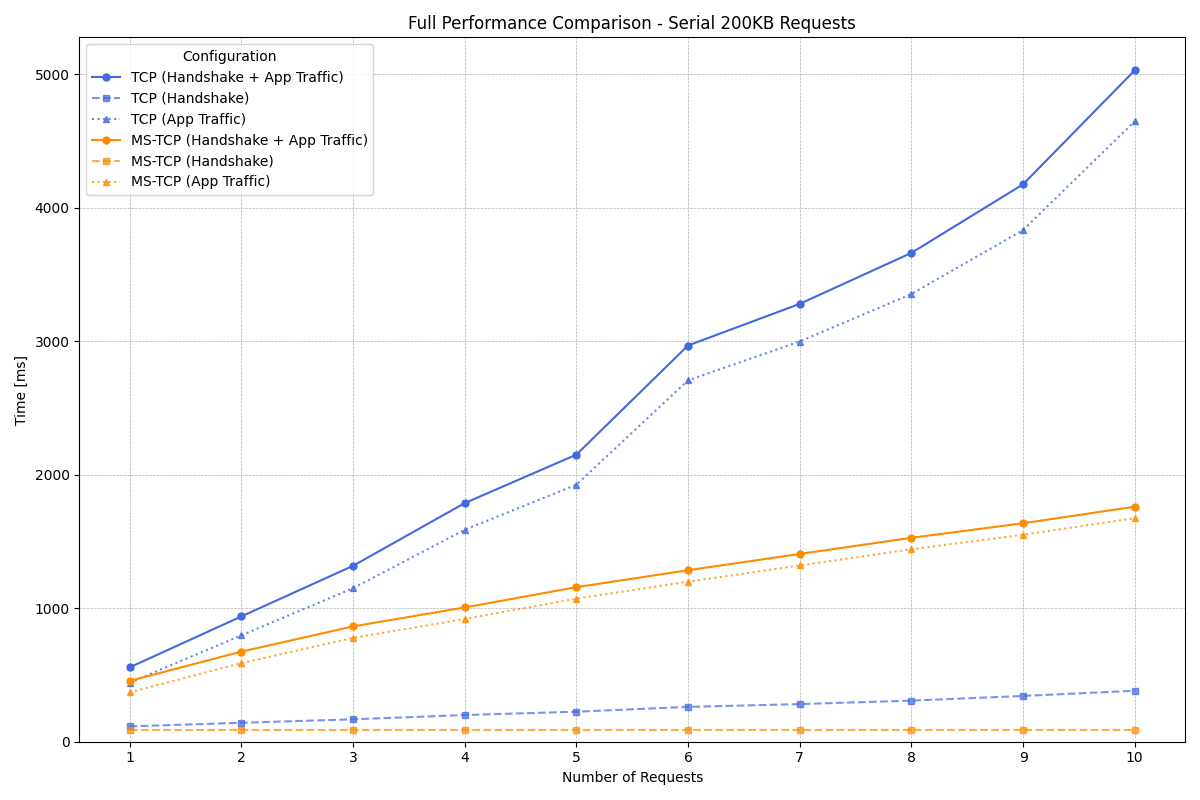
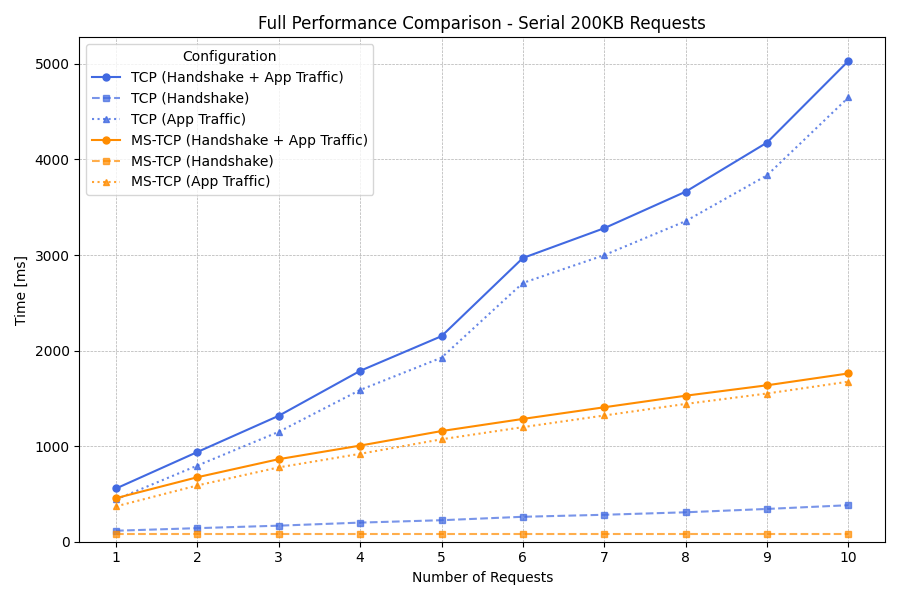
serial sequence graphs figsize

diff --git a/plot_serial_test_sequence.py b/plot_serial_test_sequence.py
@@ -231,7 +231,7 @@ def create_dynamic_performance_plot():
     # 3. Create all plots
     def create_plot(plot_type="combined"):
         """Create a single plot of specified type"""
-        fig, ax = plt.subplots(figsize=(12, 8))
+        fig, ax = plt.subplots(figsize=(9, 6))
 
         # --- DYNAMIC STYLING ---
         # Define colors for the MS_ENABLED families
